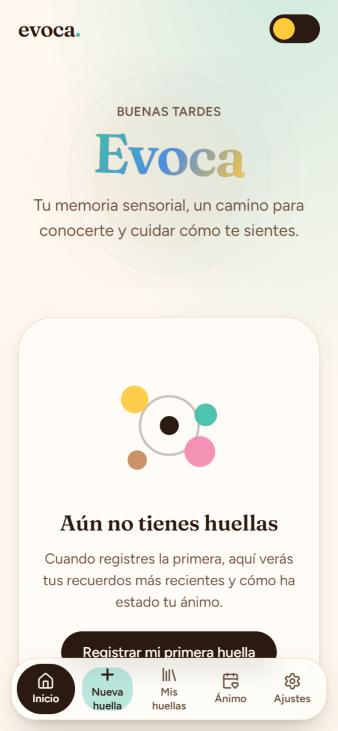
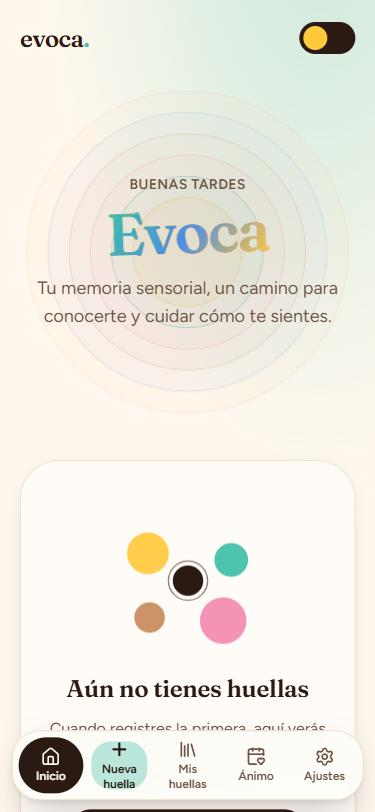
fix: mostrar las ondas completas y aprovechar el ancho en escritorio

diff --git a/frontend/src/components/evoca/Ripple.tsx b/frontend/src/components/evoca/Ripple.tsx
@@ -1,7 +1,8 @@
 /*
  * Adaptado de «Ripple» de Magic UI (MIT, https://magicui.design/docs/components/ripple).
- * Cambios: cada onda toma un color de emoción de los tokens de Evoca, menos ondas y más
- * suaves, y respeta el movimiento reducido mediante las reglas globales de animación.
+ * Cambios: cada onda toma un color de emoción de los tokens de Evoca, las ondas se miden
+ * en porcentaje de un cuadrado que cabe en el contenedor (así nunca se cortan) y respeta
+ * el movimiento reducido mediante las reglas globales de animación.
  * Copyright (c) Magic UI. Ver CREDITS.md.
  */
 import { memo, type ComponentPropsWithoutRef, type CSSProperties } from "react"
@@ -10,50 +11,57 @@ import { EMOTION_SLUGS } from "@/lib/emotions"
 import { cn } from "@/lib/utils"
 
 interface RippleProps extends ComponentPropsWithoutRef<"div"> {
-  mainCircleSize?: number
+  /** Tamaño de la onda central, en porcentaje del lado del cuadrado. */
+  innerSize?: number
   mainCircleOpacity?: number
   numCircles?: number
 }
 
-/** Ondas concéntricas que «respiran»: la huella que deja un recuerdo. Decorativo. */
+/**
+ * Ondas concéntricas que «respiran»: la huella que deja un recuerdo. Decorativo.
+ * La onda más grande ocupa el lado menor del contenedor, así siempre se ve completa.
+ */
 export const Ripple = memo(function Ripple({
-  mainCircleSize = 180,
+  innerSize = 34,
   mainCircleOpacity = 0.6,
   numCircles = 6,
   className,
   ...props
 }: RippleProps) {
+  const step = numCircles > 1 ? (100 - innerSize) / (numCircles - 1) : 0
+
   return (
     <div
       aria-hidden="true"
-      className={cn(
-        "pointer-events-none absolute inset-0 overflow-hidden select-none",
-        "mask-[radial-gradient(circle_at_center,white_30%,transparent_72%)]",
-        className,
-      )}
+      className={cn("pointer-events-none absolute inset-0 grid place-items-center select-none", className)}
       {...props}
+      style={{ containerType: "size", ...props.style }}
     >
-      {Array.from({ length: numCircles }, (_, i) => {
-        const size = mainCircleSize + i * 64
-        const color = `var(--emotion-${EMOTION_SLUGS[i % EMOTION_SLUGS.length]})`
-        return (
-          <div
-            key={i}
-            className="absolute top-1/2 left-1/2 animate-ripple rounded-full border"
-            style={
-              {
-                "--i": i,
-                width: size,
-                height: size,
-                opacity: Math.max(0.12, mainCircleOpacity - i * 0.08),
-                borderColor: color,
-                background: `color-mix(in oklab, ${color} 14%, transparent)`,
-                transform: "translate(-50%, -50%) scale(1)",
-              } as CSSProperties
-            }
-          />
-        )
-      })}
+      {/* Cuadrado que cabe dentro del contenedor (lado = el menor entre ancho y alto). */}
+      <div className="relative" style={{ width: "min(100cqw, 100cqh)", height: "min(100cqw, 100cqh)" }}>
+        {Array.from({ length: numCircles }, (_, i) => {
+          // Se reserva un 4 % para que el «respiro» (scale) no toque el borde.
+          const size = (innerSize + i * step) * 0.96
+          const color = `var(--emotion-${EMOTION_SLUGS[i % EMOTION_SLUGS.length]})`
+          return (
+            <div
+              key={i}
+              className="absolute top-1/2 left-1/2 animate-ripple rounded-full border"
+              style={
+                {
+                  "--i": i,
+                  width: `${size}%`,
+                  height: `${size}%`,
+                  opacity: Math.max(0.14, mainCircleOpacity - i * 0.08),
+                  borderColor: color,
+                  background: `color-mix(in oklab, ${color} 12%, transparent)`,
+                  transform: "translate(-50%, -50%) scale(1)",
+                } as CSSProperties
+              }
+            />
+          )
+        })}
+      </div>
     </div>
   )
 })

diff --git a/frontend/src/pages/HomePage.tsx b/frontend/src/pages/HomePage.tsx
@@ -35,27 +35,30 @@ export function HomePage() {
 
   return (
     <PageTransition className="gap-8">
-      <section className="relative isolate -mx-5 flex min-h-64 flex-col items-center justify-center overflow-hidden px-5 py-10 text-center">
-        <Ripple className="-z-10" />
-        <p className="text-sm font-semibold tracking-wide text-muted-foreground uppercase">{greeting()}</p>
-        <h1 className="mt-2 font-display text-6xl font-semibold tracking-tight sm:text-7xl">
-          <AuroraText>Evoca</AuroraText>
-        </h1>
-        <p className="mt-3 max-w-sm text-lg text-pretty text-muted-foreground">
-          Tu memoria sensorial, un camino para conocerte y cuidar cómo te sientes.
-        </p>
-      </section>
+      {/* En escritorio la bienvenida y el estado vacío van lado a lado. */}
+      <div className="grid items-center gap-8 lg:grid-cols-2 lg:gap-12">
+        <section className="relative isolate flex min-h-[22rem] flex-col items-center justify-center px-4 py-10 text-center sm:min-h-[27rem]">
+          <Ripple className="-z-10" />
+          <p className="text-sm font-semibold tracking-wide text-muted-foreground uppercase">{greeting()}</p>
+          <h1 className="mt-2 font-display text-6xl font-semibold tracking-tight sm:text-7xl">
+            <AuroraText>Evoca</AuroraText>
+          </h1>
+          <p className="mt-3 max-w-sm text-lg text-pretty text-muted-foreground">
+            Tu memoria sensorial, un camino para conocerte y cuidar cómo te sientes.
+          </p>
+        </section>
 
-      <div className="rounded-3xl border bg-card/80 shadow-soft backdrop-blur-sm">
-        <EmptyState
-          title="Aún no tienes huellas"
-          description="Cuando registres la primera, aquí verás tus recuerdos más recientes y cómo ha estado tu ánimo."
-          action={
-            <Button asChild size="lg" className="h-12 rounded-full px-6 text-base">
-              <Link to="/nueva-huella">Registrar mi primera huella</Link>
-            </Button>
-          }
-        />
+        <div className="rounded-3xl border bg-card/80 shadow-soft backdrop-blur-sm">
+          <EmptyState
+            title="Aún no tienes huellas"
+            description="Cuando registres la primera, aquí verás tus recuerdos más recientes y cómo ha estado tu ánimo."
+            action={
+              <Button asChild size="lg" className="h-12 rounded-full px-6 text-base">
+                <Link to="/nueva-huella">Registrar mi primera huella</Link>
+              </Button>
+            }
+          />
+        </div>
       </div>
 
       <motion.ol

diff --git a/frontend/src/components/evoca/AppShell.tsx b/frontend/src/components/evoca/AppShell.tsx
@@ -52,14 +52,14 @@ export function AppShell({ children, accentEmotion, className }: AppShellProps) 
       >
         Saltar al contenido
       </a>
-      <header className="mx-auto flex w-full max-w-2xl items-center justify-between px-5 pt-[max(1rem,env(safe-area-inset-top))] pb-2">
+      <header className="mx-auto flex w-full max-w-2xl items-center lg:max-w-5xl justify-between px-5 pt-[max(1rem,env(safe-area-inset-top))] pb-2">
         <NavLink to="/" className="flex min-h-11 items-center font-display text-2xl font-semibold tracking-tight" aria-label="Evoca, inicio">
           evoca<span className="text-(--accent-emotion)">.</span>
         </NavLink>
         <ThemeSwitch />
       </header>
 
-      <main id="contenido" className={cn("mx-auto w-full max-w-2xl flex-1 px-5 pt-2 pb-36", className)}>
+      <main id="contenido" className={cn("mx-auto w-full max-w-2xl flex-1 lg:max-w-5xl px-5 pt-2 pb-36", className)}>
         {children}
       </main>
 

diff --git a/frontend/src/pages/ComingSoonPage.tsx b/frontend/src/pages/ComingSoonPage.tsx
@@ -12,7 +12,7 @@ interface ComingSoonPageProps {
 /** Sección que todavía no está construida en este sprint (se completa en su HU). */
 export function ComingSoonPage({ title, description }: ComingSoonPageProps) {
   return (
-    <PageTransition className="gap-6">
+    <PageTransition className="mx-auto w-full max-w-2xl gap-6">
       <h1 className="text-3xl font-semibold">{title}</h1>
       <div className="rounded-3xl border bg-card/80 shadow-soft">
         <EmptyState

diff --git a/frontend/src/pages/SettingsPage.tsx b/frontend/src/pages/SettingsPage.tsx
@@ -16,7 +16,7 @@ export function SettingsPage() {
   const reduced = useReducedMotion()
 
   return (
-    <PageTransition className="gap-6">
+    <PageTransition className="mx-auto w-full max-w-2xl gap-6">
       <h1 className="text-3xl font-semibold">Ajustes</h1>
 
       <section aria-labelledby="apariencia" className="flex flex-col gap-3 rounded-3xl border bg-card/80 p-5 shadow-soft">

diff --git a/docs/SPRINT1.md b/docs/SPRINT1.md
@@ -52,8 +52,8 @@ No es una HU: prepara el terreno para todas.
 | CI de frontend (lint, tipos, pruebas, build, Storybook) | `.github/workflows/ci.yml` (job `frontend`) | GitHub Actions |
 | Créditos de piezas externas | `CREDITS.md` | — |
 
-Capturas de la pantalla de inicio: [modo claro](capturas/base-inicio-claro.jpg) y
-[modo oscuro](capturas/base-inicio-oscuro.jpg).
+Capturas de la pantalla de inicio: [móvil, modo claro](capturas/base-inicio-claro.jpg),
+[móvil, modo oscuro](capturas/base-inicio-oscuro.jpg) y [escritorio](capturas/base-inicio-escritorio.png).
 
 ---
 
